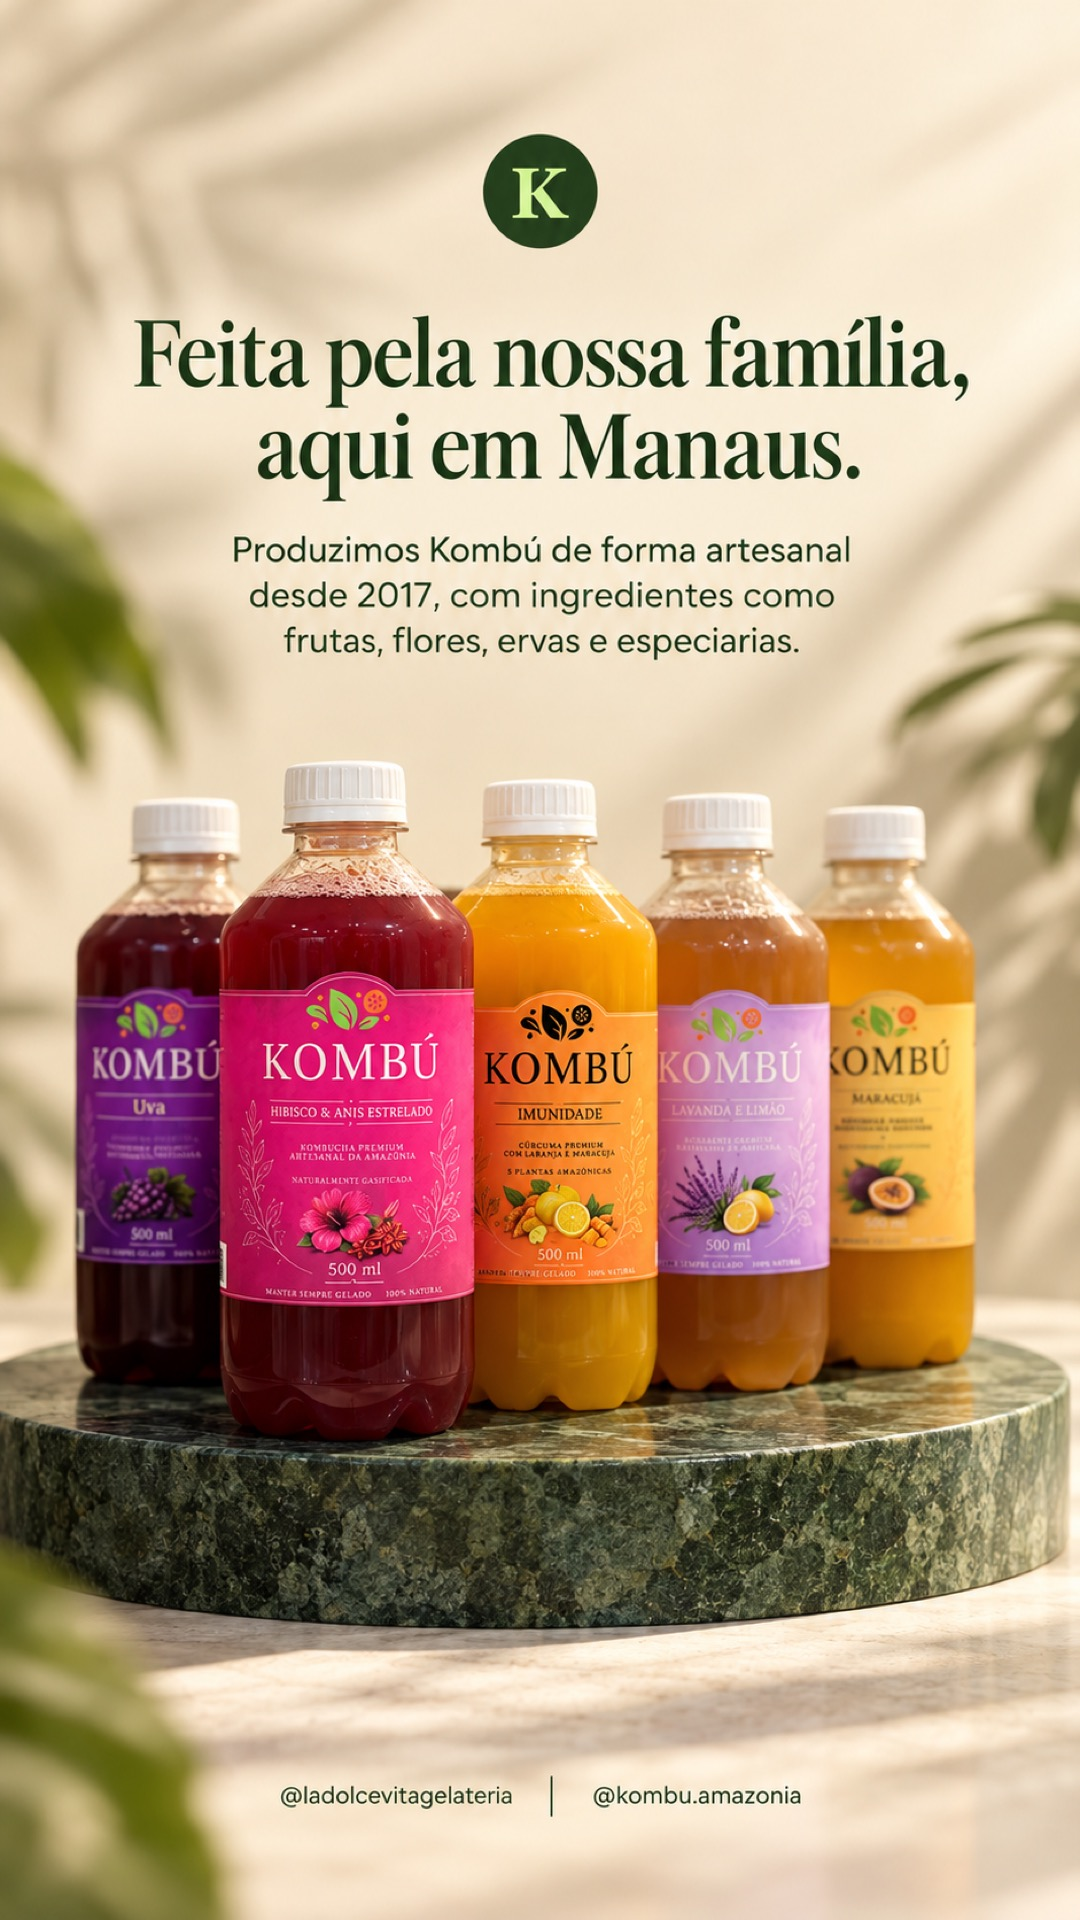
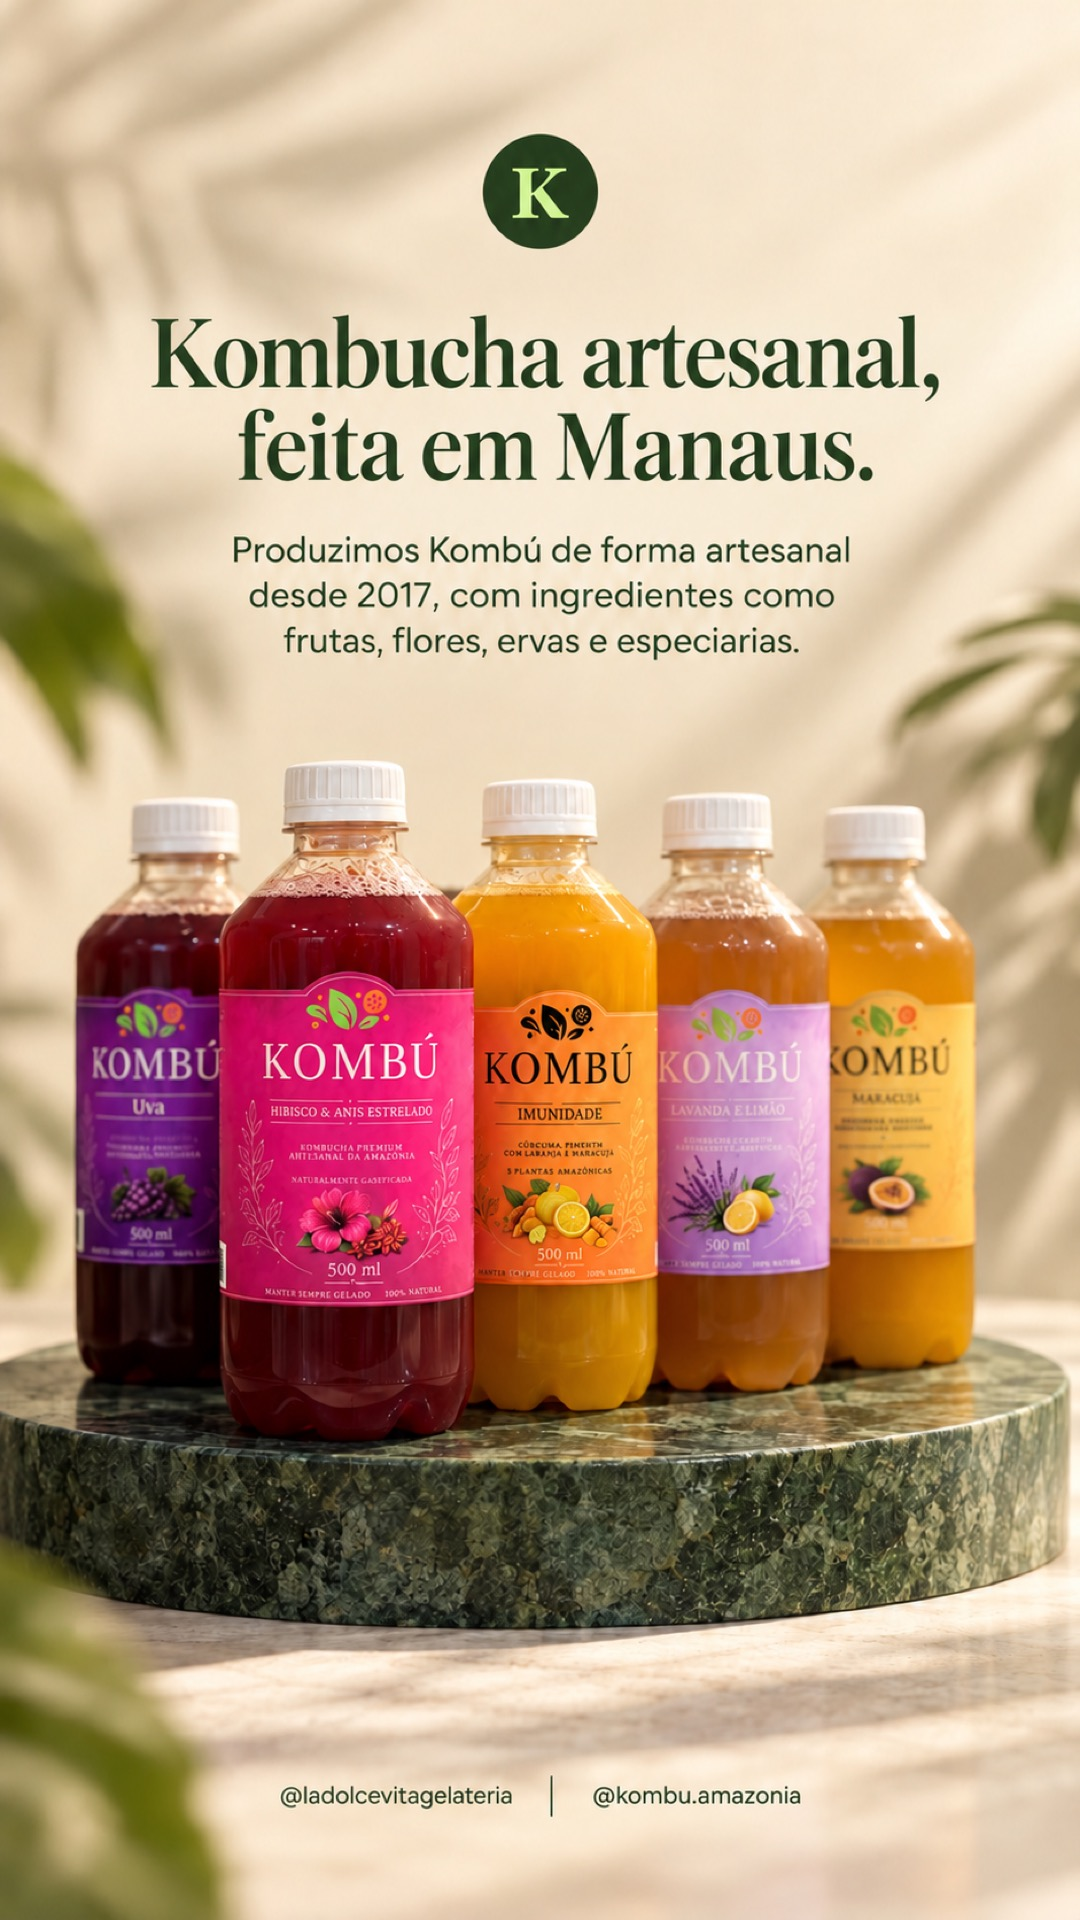
Schedule corrected Dolce Vita carousel and refine brand positioning

diff --git a/marketing/instagram/.agents/social-media-context-sms.md b/marketing/instagram/.agents/social-media-context-sms.md
@@ -11,7 +11,7 @@ copy) conflicts with them, follow the rules.
 - **Type**: Brand
 - **Name**: Kombú
 - **Handle(s)**: @kombu.amazonia on Instagram
-- **Role**: Artisan kombucha made in Manaus by a family, since 2017
+- **Role**: Artisan kombucha made in Manaus since 2017
 - **Industry/niche**: Premium artisan kombucha in Manaus. B2B first (cafés, empórios, bakeries, restaurants), with consumers buying at partners
 - **Positioning**: A Arte do Natural. Green tea, live culture, real fruit, flowers, herbs and spices, and time. The bubbles come from the fermentation itself.
 
@@ -40,7 +40,7 @@ copy) conflicts with them, follow the rules.
 2. **O que é de verdade** (what's real): what goes in the bottle and what stays out; how the fermentation works, explained plainly
 3. **Onde provar** (where to try it): partners, tagged with their handle. Never claim a partner has a specific flavour, because stock changes. Solar Café Regional is always listed last
 4. **Para o seu negócio** (for your business): resale, direct orders from 20 bottles with about two weeks to deliver, and how restocking works. Wholesale terms are discussed in DMs, never posted
-5. **Bastidores e história** (behind the scenes and story): the family, Manaus, small batches, 2017 to today. Only facts the owner has confirmed (no invented brand story)
+5. **Bastidores e história** (behind the scenes and story): Manaus, small batches, 2017 to today. Only facts the owner has confirmed (no invented brand story)
 
 ---
 
@@ -92,7 +92,7 @@ Source Set
   "profissionais, mais simples e que deixem claro"; "gramática fácil, mas mantendo o tom premium, minimalista e profissional"
 - the bottle label: "Kombucha premium artesanal da Amazônia", "Naturalmente gaseificada", "Manter sempre gelado"
 - live site copy after the owner's review (24/10): "Peça direto da Kombú.", "O que vai na Kombú.", "Não usamos"
-- owner's brief: slogan "A Arte do Natural", family business in Manaus since 2017, B2B first
+- owner's brief: slogan "A Arte do Natural", artisan production in Manaus since 2017, B2B first
 
 Rhythm
 - natural, connected sentences with varied length. Brevity must not break the thought into disconnected slogans. No fragments standing alone as slides ("Com o brunch.").
@@ -159,5 +159,11 @@ This section updates the earlier voice and CTA notes where they differ.
 
 - O titular rejeitou apenas colocar título sobre as fotos da Dolce Vita. Quer composição mais trabalhada com IA, fundo limpo/recriado, luz melhor e logo K pequena no topo. Preserve a embalagem real e não apresente a montagem como o interior real da parceira.
 - Formatos: carrossel de feed 1080×1350; Stories 1080×1920, cinco diferentes por dia.
-- As fotos IMG_7015/7017/7018 foram tiradas pelo titular na parceira Gelateria Dolce Vita. A sequência deve valorizar o local e explicar sutilmente por que experimentar kombucha e por que escolher Kombú. Conecte a ocasião de consumo com chá fermentado, sabores, gás da fermentação, produção artesanal familiar em Manaus desde 2017 e ingredientes. Não transforme o pedido de benefícios em promessas de saúde.
+- As fotos IMG_7015/7017/7018 foram tiradas pelo titular na parceira Gelateria Dolce Vita. A sequência deve valorizar o local e explicar sutilmente por que experimentar kombucha e por que escolher Kombú. Conecte a ocasião de consumo com chá fermentado, sabores, gás da fermentação, produção artesanal em Manaus desde 2017 e ingredientes. Não transforme o pedido de benefícios em promessas de saúde.
 - Stories devem formar uma conversa, com cada arte acrescentando uma informação. Evite cinco anúncios soltos ou a mesma foto com títulos diferentes dia após dia.
+
+## Regra de posicionamento — correção do titular em 27/10/2026
+
+Nunca usar “feita pela nossa família”, “nossa família”, “produção familiar” ou equivalentes no conteúdo da marca. O titular considera esse enquadramento amador. Valorizar produção artesanal, ingredientes, cuidado no processo e a experiência em Manaus desde 2017, com tom profissional. Esta regra vale para feed, Stories, legendas e futuras automações.
+
+- O sabor é **Imunidade**. “Vitalidade” não existe no catálogo. A IA já inventou esse nome em um rótulo; revisar a embalagem visualmente após toda edição, além de validar os textos.

diff --git a/marketing/instagram/LEIA-ME.md b/marketing/instagram/LEIA-ME.md
@@ -60,7 +60,7 @@ não o repete.
 
 ## Stories diários (27/10/2026)
 - Pedido do titular: cinco Stories diferentes por dia, com logo K pequena e arte própria em 1080×1920. Fotos da Dolce Vita podem receber fundo e luz por IA; a montagem não representa o interior real da parceira.
-- `stories-calendar.json` guarda cinco artes por data local de Manaus. A primeira sequência, em 28/10, apresenta Dolce Vita, explica kombucha, o sabor/gás da fermentação e a produção artesanal familiar da Kombú em Manaus desde 2017. Benefícios são apresentados pela experiência e pelos diferenciais verificáveis, sem promessas de saúde.
+- `stories-calendar.json` guarda cinco artes por data local de Manaus. A primeira sequência, em 28/10, apresenta Dolce Vita, explica kombucha, o sabor/gás da fermentação e a produção artesanal da Kombú em Manaus desde 2017. Benefícios são apresentados pela experiência e pelos diferenciais verificáveis, sem promessas de saúde.
 - `render-stories.mjs` valida e gera `out/stories/<data>/<id>.jpg`. O tipo `art` usa uma arte final aprovada; os demais montam fotos e garrafas com a logo pequena. A área segura de texto evita a interface do Instagram.
 - Fluxo: `node render-stories.mjs --check`, `node render-stories.mjs`, revisão visual, `node prepare-publish.mjs`, deploy de `.render/publish` no Pages `kombu-social`. A preparação preserva os arquivos do feed e copia somente os Stories manifestados.
 - O Worker mantém os crons existentes: publica os cinco Stories do dia na execução de 12:30 e retoma os que faltarem às 18:30. O feed mantém o intervalo de dois dias. Não existem chamadas manuais de publicação.
@@ -68,3 +68,5 @@ não o repete.
 - A automação deste chat prepara/revisa a fila diariamente às 09:00 de Manaus e confere o resultado às 13:00. Ela depende do ambiente local disponível. A publicação no horário é feita no Cloudflare, com as artes já preparadas.
 - Antes de mudar um dia, confira o log e `stories:done:<data>` sem ler tokens. Nunca substitua arte já publicada. Preserve também o feed e as alterações de terceiros.
 - Testes do publicador, com respostas simuladas e sem Instagram: `node --test worker/stories.test.mjs`.
+
+- Correção do titular: não usar referências à família na comunicação. Os validadores impedem esses termos e o nome inexistente “Vitalidade”; o sabor correto é Imunidade. A fila inclui o novo carrossel 21-dolce-vita-fotos, com quatro artes finais do tipo art, preservadas em assets/partners/.

diff --git a/marketing/instagram/assets/partners/LEIA-ME.md b/marketing/instagram/assets/partners/LEIA-ME.md
@@ -4,8 +4,8 @@ Originais do titular: IMG_7015.JPG, IMG_7017.JPG e IMG_7018.JPG, fotografados em
 
 As cinco artes dolce-story-01.jpg a dolce-story-05.jpg usam as fotos como referência e foram compostas com a ferramenta nativa image_gen: fundo editorial em creme/verde, bancada, luz trabalhada e logo K pequena. São montagens de campanha; o cenário recriado não representa o interior real da gelateria. Mantêm as garrafas Penta 500 ml como referência de embalagem. Nomes de sabores foram revisados visualmente.
 
-As artes finais são 1080×1920 para Stories. A sequência explica o chá fermentado, a experiência de sabor e gás natural, a produção artesanal familiar em Manaus desde 2017 e convida a provar na Dolce Vita, sem alegações de saúde ou garantia de estoque específico. Os nomes nas embalagens seguem os rótulos fotografados.
+As artes finais são 1080×1920 para Stories. A sequência explica o chá fermentado, a experiência de sabor e gás natural, a produção artesanal em Manaus desde 2017 e convida a provar na Dolce Vita, sem alegações de saúde ou garantia de estoque específico. Os nomes nas embalagens seguem os rótulos fotografados.
 
 A logo foi copiada dos arquivos existentes assets/kombu-k-logo.png e .svg do site. O SVG é usado pelo renderizador para evitar o fundo branco do PNG.
 
-Carrossel de feed separado, 1080×1350, quatro artes e legenda: research/2026-10-27/dolce-vita-fotos/feed-v2/. Prompts e prévias no mesmo diretório de pesquisa. O carrossel foi preparado para revisão, não inserido automaticamente na fila existente do feed.
+Carrossel de feed separado, 1080×1350, quatro artes e legenda: research/2026-10-27/dolce-vita-fotos/feed-v2/. Prompts e prévias no mesmo diretório de pesquisa. O carrossel corrigido foi adicionado ao fim da fila como 21-dolce-vita-fotos, por solicitação do titular. As artes canônicas ficam em dolce-feed-01.jpg a dolce-feed-04.jpg.
